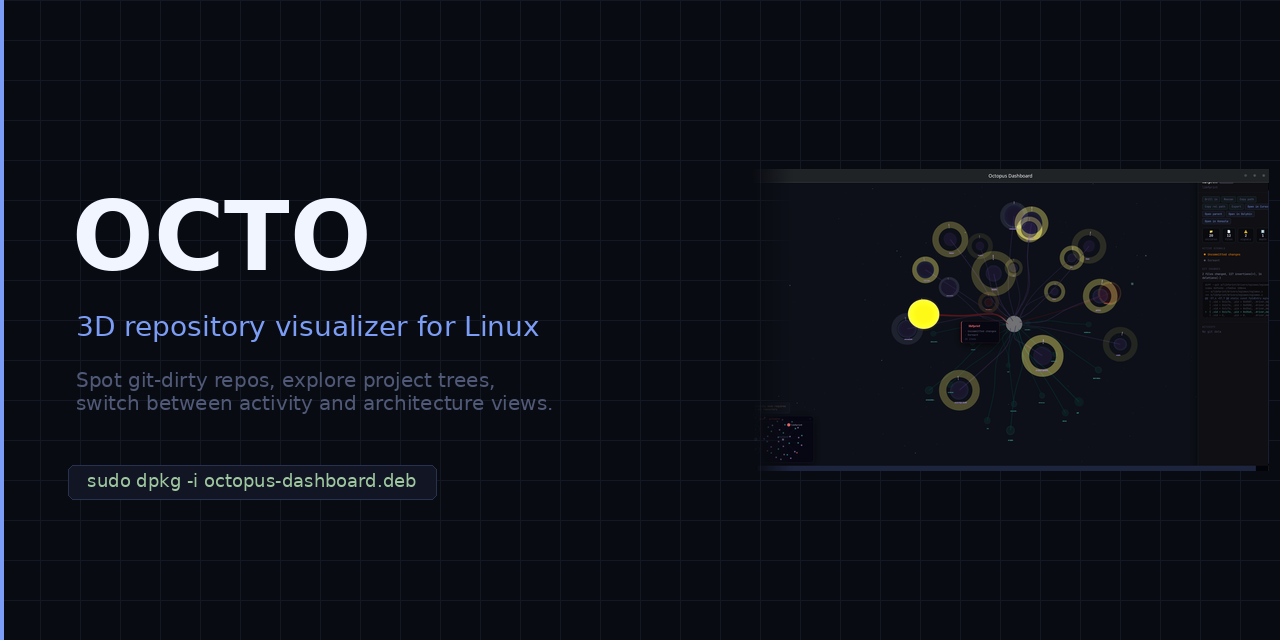
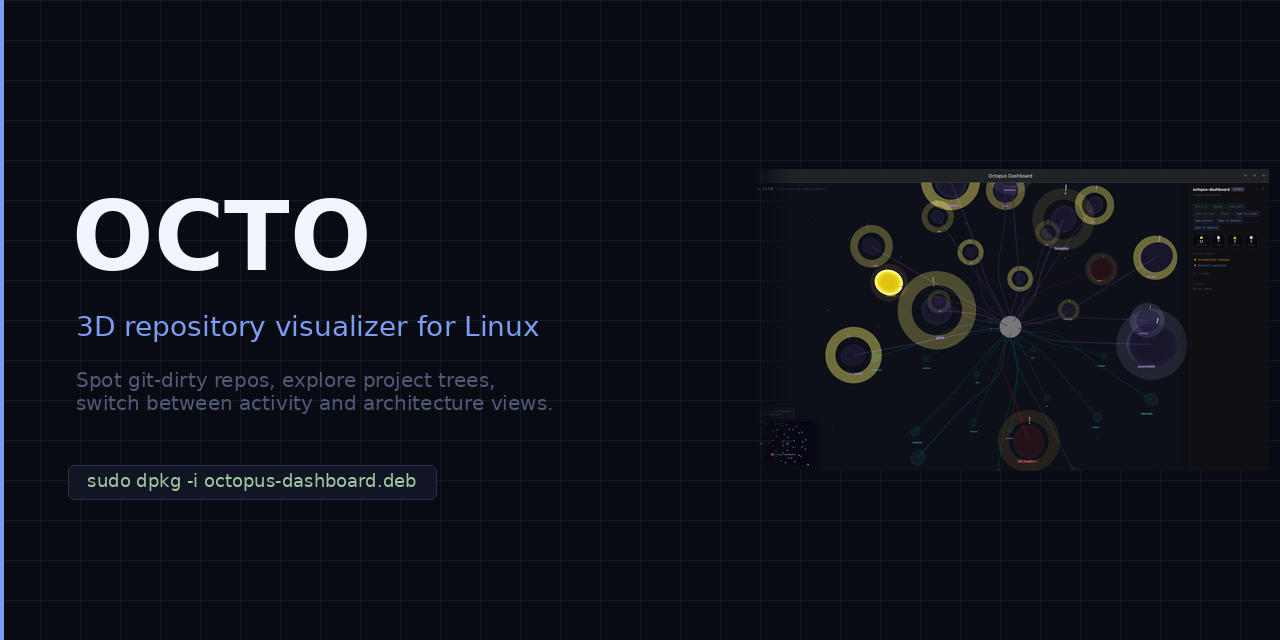
docs: add activity, architecture, and search screenshots; update README grid

Changed region(s): [[0.5938, 0.2812, 1.0, 0.75], [0.9688, 0.3125, 1.0, 0.3438], [0.9375, 0.2812, 0.9688, 0.3125]]

diff --git a/README.md b/README.md
@@ -27,18 +27,25 @@ OCTO scans your filesystem and renders every repository and folder as a glowing 
 <table>
 <tr>
 <td align="center" width="50%">
-<img src="docs/images/light-theme.png" alt="Full scene, light theme" width="100%"><br>
-<sub><b>Light theme</b> — the full radial graph across all your projects. Red nodes are git-dirty or unpushed; violet nodes are clean.</sub>
+<img src="docs/images/activity-mode.png" alt="Activity mode" width="100%"><br>
+<sub><b>Activity mode</b> — commit heatmap colors nodes by recency. Hot repos glow gold; dormant ones fade. Halos pulse on recently active folders.</sub>
 </td>
 <td align="center" width="50%">
-<img src="docs/images/overview.png" alt="Dark theme overview" width="100%"><br>
-<sub><b>Dark theme</b> — default view with star-field background, animated tentacle lines, and the minimap in the corner.</sub>
+<img src="docs/images/architecture-mode.png" alt="Architecture mode" width="100%"><br>
+<sub><b>Architecture mode</b> — 9 semantic cluster categories with distinct colors. Backend, frontend, tests, config, docs, and more, visible at a glance.</sub>
+</td>
+</tr>
+<tr>
+<td align="center" width="50%">
+<img src="docs/images/search.png" alt="Fuzzy search" width="100%"><br>
+<sub><b>Fuzzy search</b> — <code>Ctrl+K</code> searches all nodes instantly, with type badges, activity indicators, and keyboard navigation.</sub>
+</td>
+<td align="center" width="50%">
+<img src="docs/images/light-theme.png" alt="Light theme" width="100%"><br>
+<sub><b>Light theme</b> — "Future Glass" — full radial graph with pearl background. Red nodes are dirty or unpushed; violet are clean.</sub>
 </td>
 </tr>
 </table>
-
-![Onboarding — choose your root directory](docs/images/onboarding.png)
-*First launch — paste a path or browse to pick the root directory you want to visualize.*
 
 ---
 